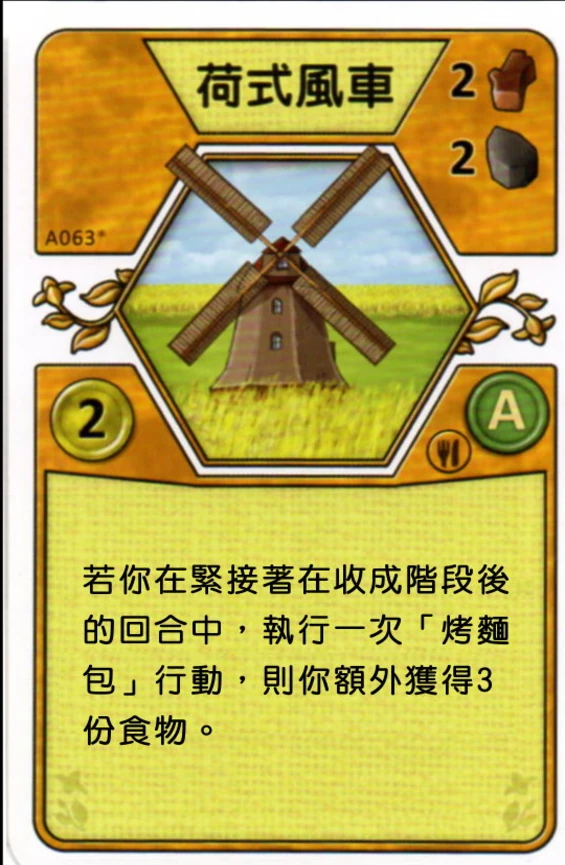
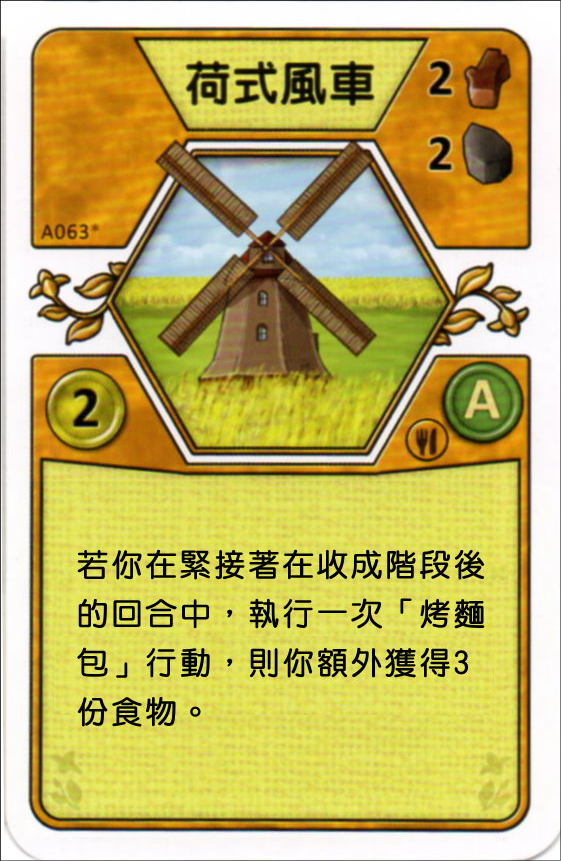
fix: 改用使用者提供的荷式風車卡圖

diff --git a/card-images.js b/card-images.js
@@ -2,7 +2,7 @@
   // 卡圖檔 CDN：圖已搬到 Cloudflare Pages（免費、流量無上限）。
   // 這是卡圖網址的單一開關——回滾只要設 localStorage hv-card-cdn 指回 viewer 自己（如 './'）即可。
   const CARD_IMG_CDN = localStorage.getItem('hv-card-cdn') || 'https://agricola-cards.pages.dev/';
-  const MANIFEST_URL = './card-images.json?v=20260809-a063';
+  const MANIFEST_URL = './card-images.json?v=20260809-a063-user';
   const DECKS = new Set([
     'A', 'B', 'BI', 'C', 'Cz', 'D', 'E', 'FL', 'FR', 'G', 'G4', 'G5',
     'G5+', 'G6', 'G7', 'G8', 'G9', 'HH', 'I', 'K', 'L', 'NL', 'O', 'OX',
